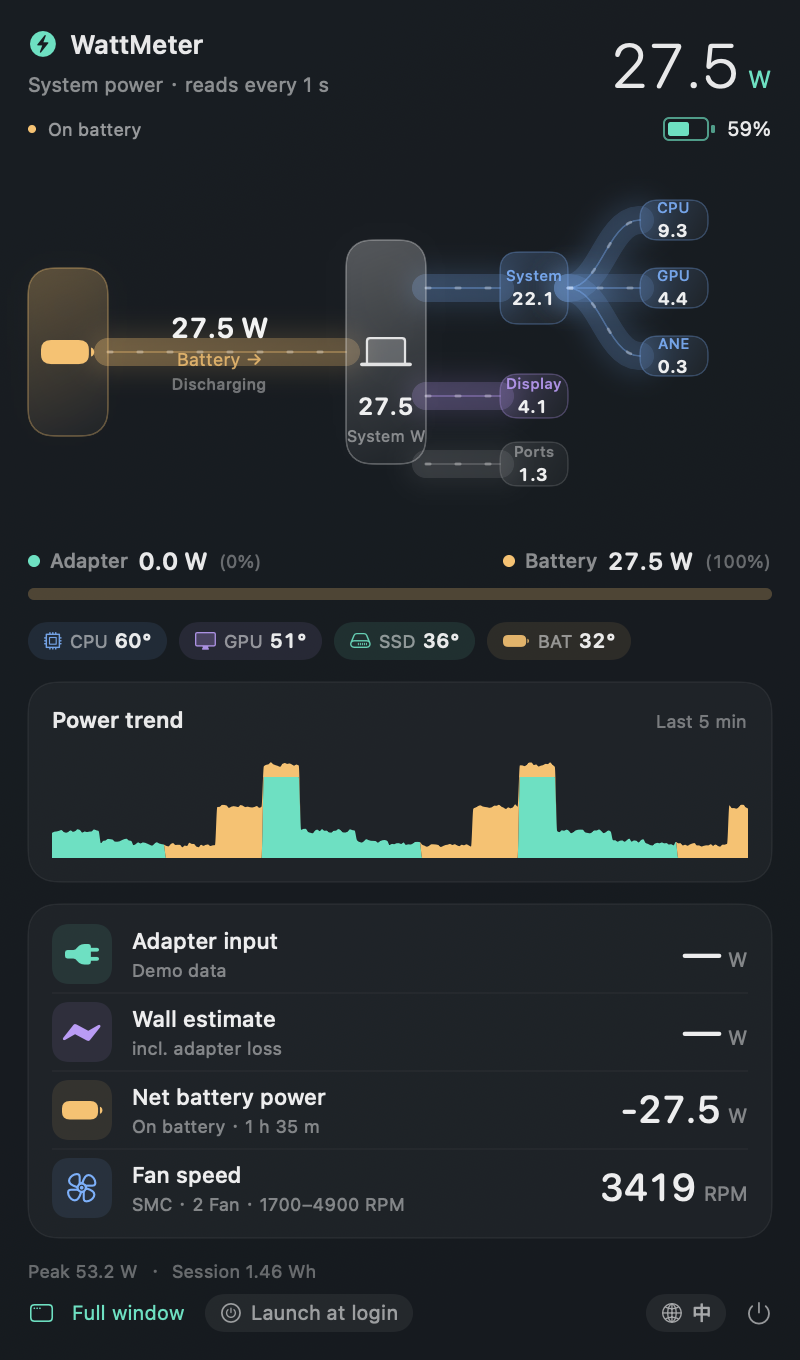
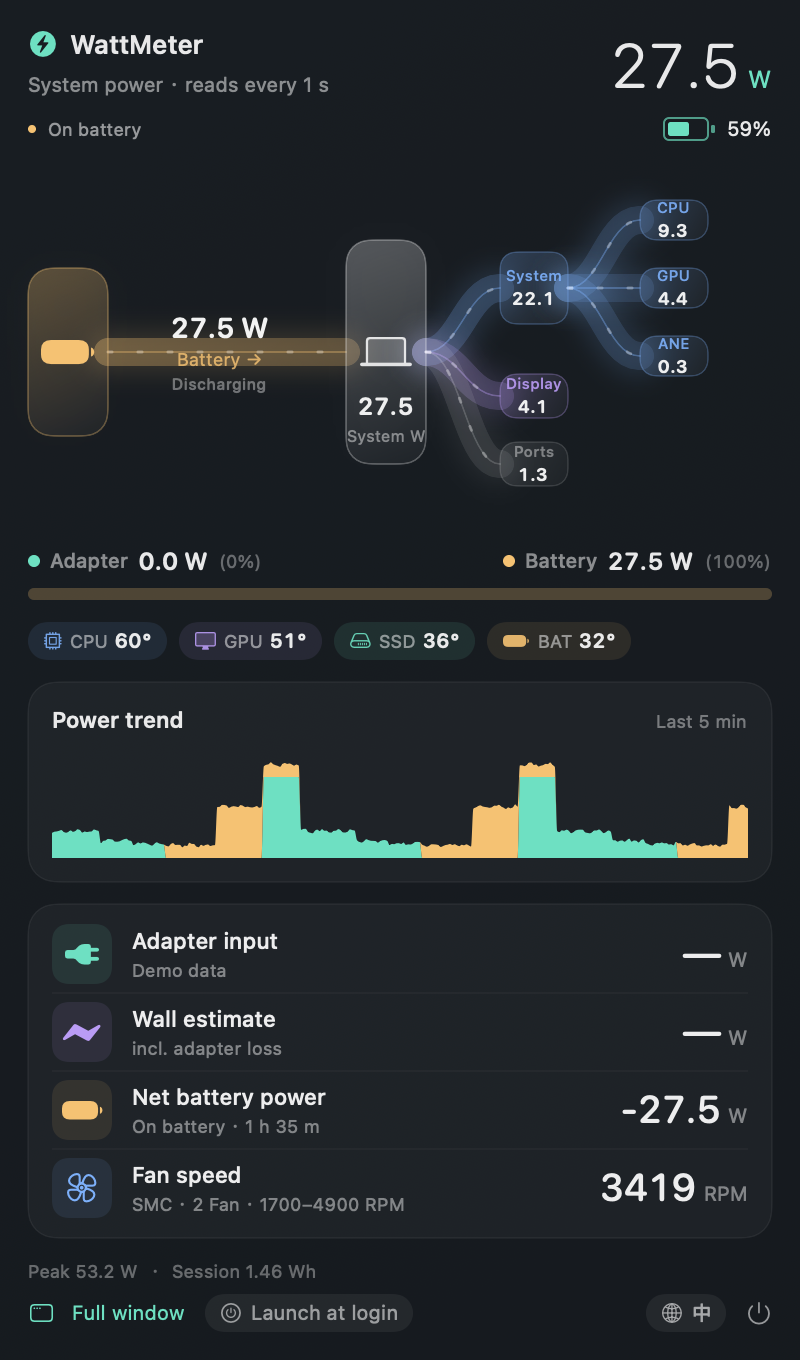
feat: converge flow links into a single hub on each side of the machine
Left links (adapter/battery) now all meet the machine at its left edge
midpoint, and right links all start from the right edge midpoint, instead
of attaching at several different heights. This gives the diagram a clean
hub-and-spoke look.

Changed region(s): [[0.5, 0.1853, 0.625, 0.3706]]

diff --git a/Sources/WattMeterUI/FlowDiagram.swift b/Sources/WattMeterUI/FlowDiagram.swift
@@ -235,22 +235,22 @@ public struct FlowDiagram: View {
                 if onAC {
                     // 电源在上、电池在下，两条端口都常驻
                     link(from: CGPoint(x: leftNodeX + leftNodeWidth, y: adapterY),
-                         to: CGPoint(x: centerNodeX, y: 78),
+                         to: CGPoint(x: centerNodeX, y: centerY),
                          watts: max(total, adapterToLoadW), tint: Palette.mint)
 
                     if batteryCharging {
                         // 充电：能量从整机流向电池（路径方向 = 能量方向）
-                        link(from: CGPoint(x: centerNodeX, y: 112),
+                        link(from: CGPoint(x: centerNodeX, y: centerY),
                              to: CGPoint(x: leftNodeX + leftNodeWidth, y: batteryY),
                              watts: chargeW, tint: batteryTint)
                     } else if batterySupplying {
                         link(from: CGPoint(x: leftNodeX + leftNodeWidth, y: batteryY),
-                             to: CGPoint(x: centerNodeX, y: 112),
+                             to: CGPoint(x: centerNodeX, y: centerY),
                              watts: batteryFlowW, tint: batteryTint)
                     } else {
                         // 已充满 / 待机：保留一条淡线表示连接，但无流动
                         link(from: CGPoint(x: leftNodeX + leftNodeWidth, y: batteryY),
-                             to: CGPoint(x: centerNodeX, y: 112),
+                             to: CGPoint(x: centerNodeX, y: centerY),
                              watts: 0, tint: batteryTint, muted: true, flowing: false)
                     }
                 } else {
@@ -269,7 +269,7 @@ public struct FlowDiagram: View {
             // 右侧：系统（再分 CPU / GPU / ANE） + 屏幕 / 接口
             let mainSystemX: CGFloat = chipItems.isEmpty ? rightNodeX : systemNodeX
             let mainSystemY: CGFloat = chipItems.isEmpty ? 34 : 62
-            link(from: CGPoint(x: centerNodeX + centerNodeWidth, y: mainSystemY),
+            link(from: CGPoint(x: centerNodeX + centerNodeWidth, y: centerY),
                  to: CGPoint(x: mainSystemX, y: mainSystemY),
                  watts: system, tint: systemTint)
             if !chipItems.isEmpty {
@@ -280,10 +280,10 @@ public struct FlowDiagram: View {
                 }
             }
             let sideX: CGFloat = chipItems.isEmpty ? rightNodeX : systemNodeX
-            link(from: CGPoint(x: centerNodeX + centerNodeWidth, y: 116),
+            link(from: CGPoint(x: centerNodeX + centerNodeWidth, y: centerY),
                  to: CGPoint(x: sideX, y: 116),
                  watts: display, tint: displayTint, muted: display == nil)
-            link(from: CGPoint(x: centerNodeX + centerNodeWidth, y: 150),
+            link(from: CGPoint(x: centerNodeX + centerNodeWidth, y: centerY),
                  to: CGPoint(x: sideX, y: 150),
                  watts: ports, tint: portTint, muted: ports == nil)
         }

diff --git a/docs/release-notes-1.3.1.md b/docs/release-notes-1.3.1.md
@@ -20,6 +20,12 @@ It shows:
 
 ![about](https://raw.githubusercontent.com/albertz-source/WattMeter/main/docs/preview-about.png)
 
+### Flow diagram: single hub on each side
+
+All links now converge into one point on each edge of the machine node (left and right midpoints)
+instead of attaching at several heights, so the diagram reads as one hub fanning out to the left
+sources and right loads.
+
 ### Also included from 1.3.0
 
 - CPU / GPU / ANE / DRAM power in the flow diagram (IOReport `Energy Model` merged with `GPU Stats` /
